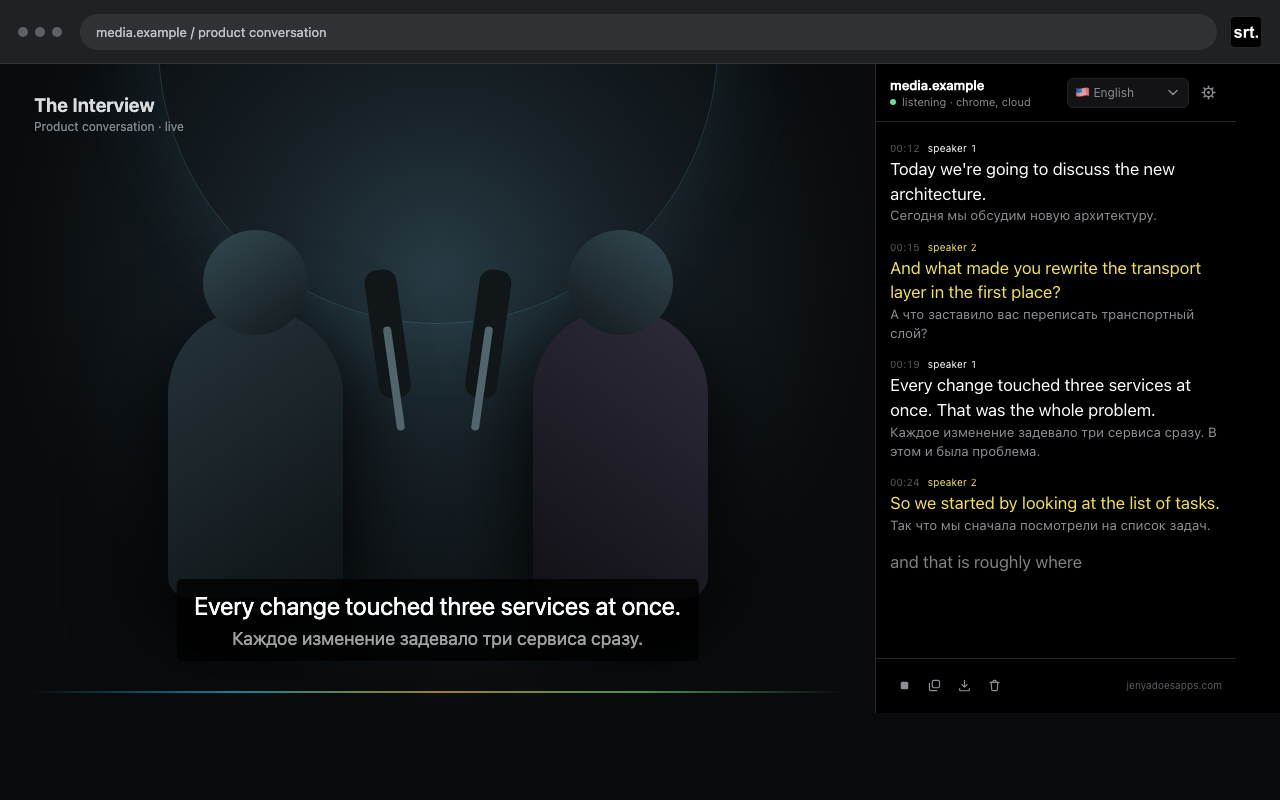
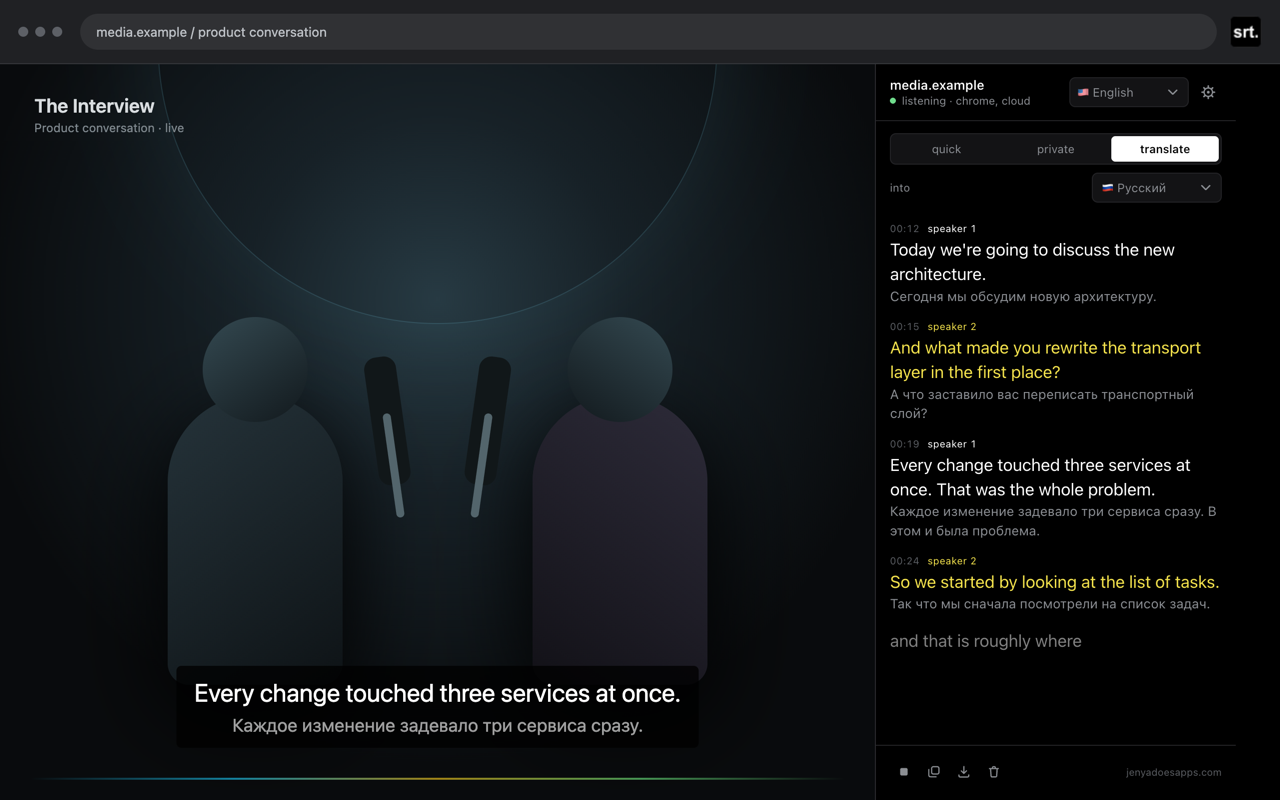
Say what this is: private captions for your browser
The listing and the readme sold another subtitle extension. They now lead
with what the product is — private captions for videos, meetings, podcasts
and streams, transcribed and translated on your own machine — and describe
the three modes rather than an engine setting. The readme opens with the
Chrome Web Store and source links and two screenshots side by side.

Screenshots reshot for the mode row; the live one now shows private mode,
which is what "listening · on device" means. The translation is rendered
under the line it came from, not above it, so every copy that said otherwise
is corrected.

Claude-Session: https://claude.ai/code/session_015hnx8c3wuB4jyBriNaSyUW

diff --git a/README.md b/README.md
@@ -1,25 +1,64 @@
+<div align="center">
+
 # Tab Subtitles
 
-Live captions for audio playing in a Chrome tab. Subtitles appear in the side panel and can optionally be shown over the page or fullscreen video.
+### Private captions for your browser
 
-## Live captions
+Videos, meetings, podcasts and streams — transcribed and translated on your own machine.
 
-![Live captions in the side panel and over a video](store/media/screenshot-1-live.png)
+[![Install from Chrome Web Store](https://img.shields.io/badge/Install%20from%20Chrome%20Web%20Store-1a73e8?style=for-the-badge&logo=googlechrome&logoColor=white)](https://chromewebstore.google.com/detail/tab-subtitles/egbheogpojgfgidcjffloaepeefbfobd)
+&nbsp;
+[![View source](https://img.shields.io/badge/View%20source-24292f?style=for-the-badge&logo=github&logoColor=white)](https://github.com/hypnagonia/tab-subtitles)
 
-## Settings
+<table>
+  <tr>
+    <td width="50%"><img src="store/media/screenshot-1-live.png" alt="Private captions in the side panel and over the video" width="100%"></td>
+    <td width="50%"><img src="store/media/screenshot-3-translation.png" alt="Each line translated on the same machine" width="100%"></td>
+  </tr>
+  <tr>
+    <td align="center"><sub><b>private</b> — nothing leaves the machine</sub></td>
+    <td align="center"><sub><b>translate</b> — the translation under each line</sub></td>
+  </tr>
+</table>
 
-![Subtitle and recognition settings](store/media/screenshot-2-settings.png)
+</div>
+
+## Three modes, no engine picker
+
+You choose what the captions are for. Which recogniser answers, and whether anything is translated, follows from that.
+
+| Mode | What you get |
+| --- | --- |
+| **quick** | The fastest way to captions. Chrome listens, and the offline model steps in when it cannot. |
+| **private** | Captions made on this machine and nowhere else, by Whisper in the browser. The first run downloads about 150 MB. |
+| **translate** | Captions with the translation under each line, translated on this machine by Chrome's built-in translator. |
+
+The mode sits under the header, next to the spoken language — the two things worth changing without opening settings. Everything else (typeface, size, colour, timestamps, speaker colours, on-page overlay) lives behind the gear.
 
 ## Features
 
-- Chrome Speech Recognition for quick startup
-- Optional on-device Whisper transcription
-- Speaker separation and speaker colors, on by default
+- Live captions in the side panel, in 17 spoken languages
+- Optional captions over the page and in fullscreen video
+- Speaker separation and speaker colours, on by default
 - Spoken language picked from the panel, switchable mid-session
-- Optional live translation on device, shown above the original line
-- Adjustable typeface, size, color, and timestamps
+- On-device translation, shown under the original line
+- Adjustable typeface, size, colour, and timestamps
 - TXT, SRT, and VTT export
 - No account, advertising, analytics, or cloud storage
+
+## Recognition and privacy
+
+| Mode | Processing |
+| --- | --- |
+| quick | Chrome recognition first, which may send tab audio to Google unless Chrome's on-device language model is installed. Falls back to Whisper. |
+| private | Whisper only, in this browser, after an approximately 150 MB model download. Nothing leaves the machine. |
+| translate | Recognition as in quick; translation always on this machine. |
+
+Translation uses Chrome's built-in Translator API (Chrome 138+). It runs locally once the language pair's model has been downloaded, and the transcript keeps the original: exports and copied lines are the words as they were spoken.
+
+Speaker separation is on by default and can be switched off in settings. It downloads an approximately 7 MB model on first use and processes speaker embeddings locally.
+
+The developer does not receive audio or transcripts. Transcripts remain in extension memory for the active session unless the user copies or exports them. See [PRIVACY.md](PRIVACY.md) for the complete policy.
 
 ## Install locally
 
@@ -37,20 +76,6 @@ Then:
 5. Click the extension icon on a tab that is playing audio.
 
 Chrome requires the toolbar click before an extension can capture a tab. Protected Chrome pages and some DRM media cannot be captured.
-
-## Recognition and privacy
-
-| Mode | Processing |
-| --- | --- |
-| Auto | Uses Chrome recognition first and falls back to Whisper if unavailable. |
-| Chrome | May send tab audio to Google unless Chrome has its on-device language model installed. |
-| Offline model | Runs Whisper locally in the browser after an approximately 150 MB model download. |
-
-Translation uses Chrome's built-in Translator API (Chrome 138+). It runs on this machine once the language pair's model has been downloaded, and the transcript keeps the original: exports and copied lines are the words as they were spoken.
-
-Speaker separation is on by default and can be switched off in settings. It downloads an approximately 7 MB model on first use and processes speaker embeddings locally.
-
-The developer does not receive audio or transcripts. Transcripts remain in extension memory for the active session unless the user copies or exports them. See [PRIVACY.md](PRIVACY.md) for the complete policy.
 
 ## Development
 

diff --git a/PRIVACY.md b/PRIVACY.md
@@ -8,7 +8,7 @@ Tab Subtitles creates live captions from audio playing in a browser tab selected
 
 When the user starts captions, the extension handles audio from the selected tab and the transcript produced from that audio. It also reads the selected tab’s title, URL/host, and audio state to identify the caption session. Audio or text may contain personal communications or other personal information depending on what the user chooses to caption.
 
-The extension stores preferences such as recognition engine, language, subtitle appearance, and feature switches in Chrome local storage. It stores the active tab identifier and invocation state in Chrome session storage while needed for the current browser session.
+The extension stores preferences such as the caption mode, language, subtitle appearance, and feature switches in Chrome local storage. It stores the active tab identifier and invocation state in Chrome session storage while needed for the current browser session.
 
 ## How information is used
 
@@ -16,11 +16,11 @@ This information is used only to create live captions, optionally distinguish sp
 
 ## Processing and sharing
 
-In Auto or Chrome mode, Tab Subtitles uses Chrome Speech Recognition. Depending on the user’s Chrome installation and language model availability, Chrome may transmit tab audio to Google for transcription. That processing is governed by Google’s applicable terms and privacy policy. The extension UI identifies whether Chrome reports the active recognizer as cloud-based or on-device.
+In Quick captions and Translate modes, Tab Subtitles uses Chrome Speech Recognition. Depending on the user’s Chrome installation and language model availability, Chrome may transmit tab audio to Google for transcription. That processing is governed by Google’s applicable terms and privacy policy. The extension UI identifies whether Chrome reports the active recognizer as cloud-based or on-device.
 
-In Offline model mode, speech recognition runs locally in the browser. Optional speaker separation also runs locally. Optional translation uses Chrome’s built-in Translator, which runs on the device after Chrome downloads the language pair’s model; transcripts are not sent to a translation service. Enabling these features downloads machine-learning model files from Hugging Face over HTTPS; audio and transcripts are not sent to Hugging Face.
+In Private (offline) mode, speech recognition runs locally in the browser. Optional speaker separation also runs locally. Optional translation uses Chrome’s built-in Translator, which runs on the device after Chrome downloads the language pair’s model; transcripts are not sent to a translation service. Enabling these features downloads machine-learning model files from Hugging Face over HTTPS; audio and transcripts are not sent to Hugging Face.
 
-The developer does not operate a backend for Tab Subtitles and does not receive, collect, sell, or use tab audio, transcripts, browsing information, or settings for advertising or analytics. Information is not shared with third parties except for Chrome/Google processing described above when the user chooses Auto or Chrome mode.
+The developer does not operate a backend for Tab Subtitles and does not receive, collect, sell, or use tab audio, transcripts, browsing information, or settings for advertising or analytics. Information is not shared with third parties except for Chrome/Google processing described above when the user chooses Quick captions or Translate.
 
 ## Storage and retention
 
@@ -34,7 +34,7 @@ Network requests used for Chrome transcription or model downloads use HTTPS or b
 
 ## User choices
 
-Users can select Offline model before starting captions to keep speech recognition on their device. On-page subtitles are optional and disabled by default. Speaker separation is on by default and can be switched off in settings; it runs locally and downloads an approximately 7 MB model on first use. Users can stop captions at any time, clear the visible transcript, remove saved exports, clear extension storage, or uninstall the extension.
+Users can select Private (offline) mode before starting captions to keep speech recognition on their device. On-page subtitles are optional and disabled by default. Speaker separation is on by default and can be switched off in settings; it runs locally and downloads an approximately 7 MB model on first use. Users can stop captions at any time, clear the visible transcript, remove saved exports, clear extension storage, or uninstall the extension.
 
 ## Changes and contact
 

diff --git a/CHROMEWEBSTORE.md b/CHROMEWEBSTORE.md
@@ -10,7 +10,7 @@ The same in every locale: the summary and description are translated, the name i
 
 **Summary (132 characters maximum):**
 
-Live subtitles for any video or call: speech to text on your device, translation, speaker colors, SRT/VTT export.
+Private live captions for any Chrome tab: on-device speech to text, translation, speaker colors, SRT/VTT export.
 
 Each locale has its own summary in `public/_locales/<locale>/messages.json`, written for what people search in that language rather than translated word for word.
 
@@ -28,9 +28,15 @@ Translation needs Chrome 138 or later; without it the option is simply unavailab
 
 **Detailed description:**
 
-Live subtitles for anything playing in a Chrome tab: video, lectures, calls, streams, podcasts. Speech becomes readable text as it is spoken, and can be translated into another language on your own machine as it goes.
+Private captions for your browser. Videos, meetings, podcasts and streams — transcribed, and translated, on your own machine. Speech becomes readable text as it is spoken, in the side panel and, if you want it, over the video itself.
 
 Click the toolbar icon on the tab you want to caption. Tab Subtitles opens in the side panel and starts listening — nothing to set up per site, no account, no upload, no file to prepare.
+
+You pick what the captions are for, not which speech engine makes them:
+
+- Quick — the fastest way to captions. Chrome listens, and the offline model steps in when it cannot.
+- Private — captions made on your machine and nowhere else, by Whisper in the browser.
+- Translate — captions with the translation under each line, translated on your machine.
 
 Works with any tab that plays sound:
 
@@ -40,16 +46,17 @@ Works with any tab that plays sound:
 - Podcasts and radio
 - Anything where you would rather read than listen, or need both
 
-Privacy note: Auto mode uses Chrome Speech Recognition first. Depending on your Chrome setup, Chrome may send captured tab audio to Google for transcription. Choose Offline model in settings before starting captions if you want transcription to stay on your device. Translation always runs on your device. Tab Subtitles has no account, analytics, advertising, or developer-operated server, and the developer does not receive your audio or transcripts.
+Privacy note: Quick and Translate use Chrome Speech Recognition first. Depending on your Chrome setup, Chrome may send captured tab audio to Google for transcription. Choose Private before starting captions if you want transcription to stay on your device. Translation always runs on your device. Tab Subtitles has no account, analytics, advertising, or developer-operated server, and the developer does not receive your audio or transcripts.
 
 Features:
 
 - Live captions in a focused side panel, in 17 spoken languages
+- Three modes — quick, private, translate — chosen in one tap in the panel
 - Optional captions over the page and in fullscreen video
-- Optional offline Whisper transcription
+- Fully offline Whisper transcription in Private mode
 - Speaker separation and speaker colors (on by default, switchable in settings)
 - Spoken language picked from the panel, switchable mid-session
-- Optional on-device translation, shown above the original line
+- On-device translation, shown under the original line
 - Adjustable typeface, text size, color, and timestamps
 - Copy transcripts or export TXT, SRT, and VTT files
 - No account, advertising, analytics, or cloud storage
@@ -102,6 +109,7 @@ Create live, readable captions and downloadable subtitle transcripts from audio 
 
 ## Distribution and support
 
+- Listing: `https://chromewebstore.google.com/detail/tab-subtitles/egbheogpojgfgidcjffloaepeefbfobd`
 - Visibility: Public
 - Regions: All regions unless support requirements dictate otherwise
 - Mature content: No
